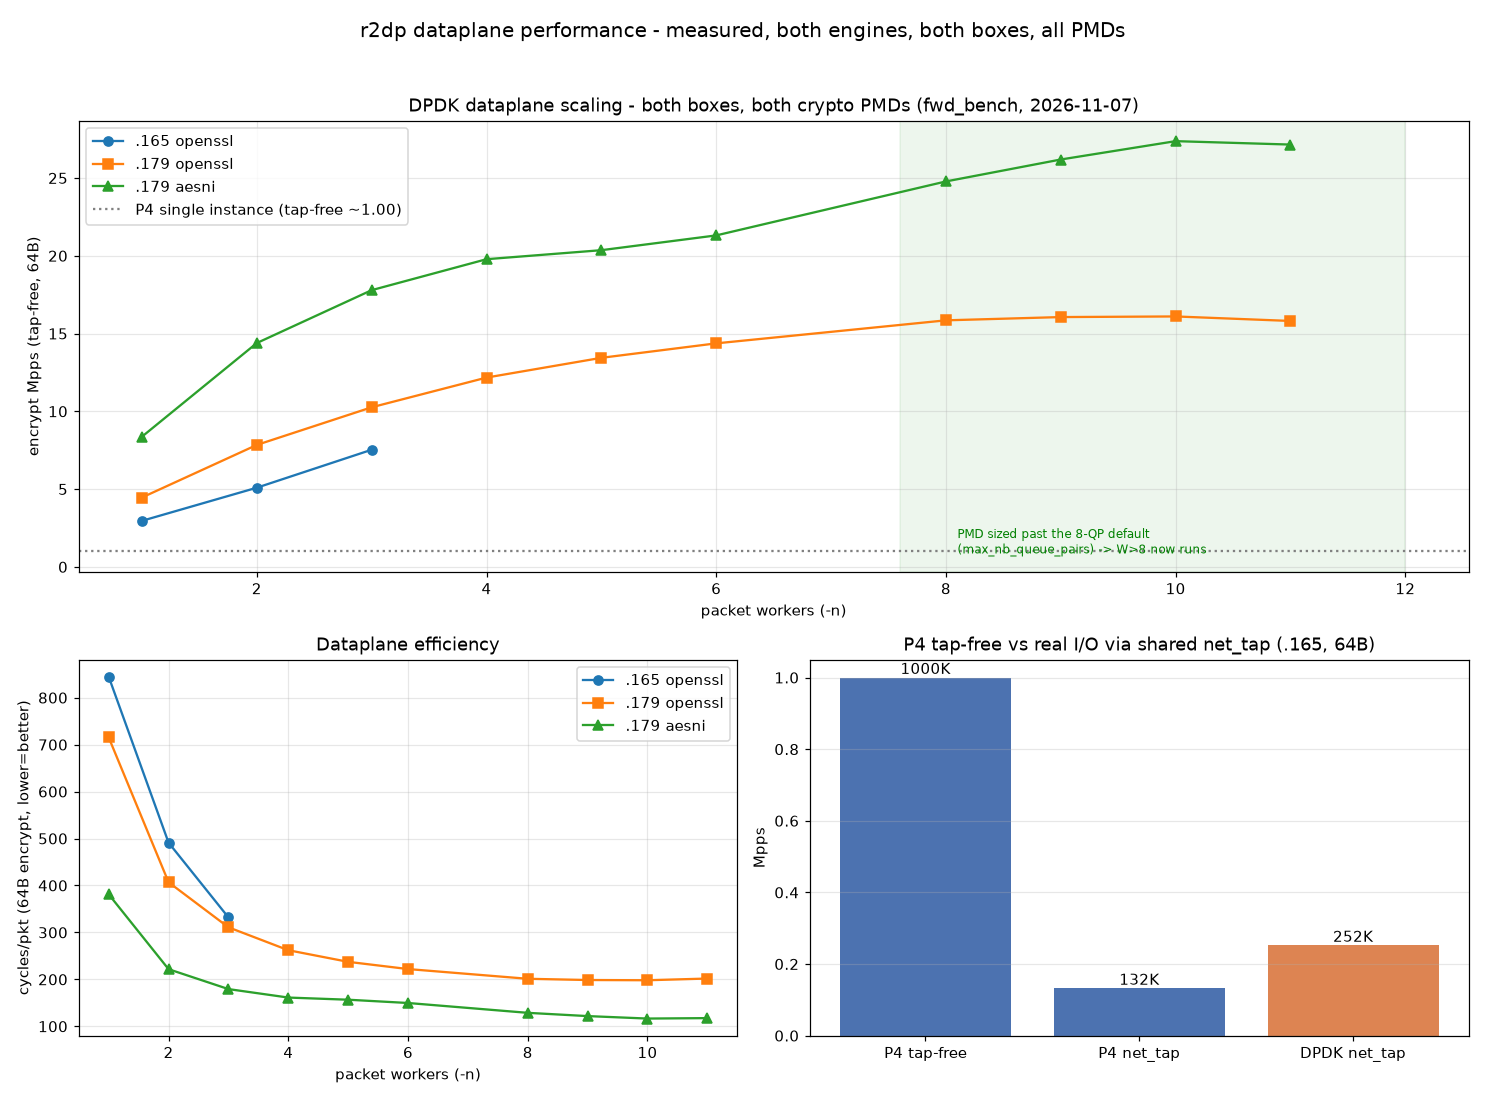
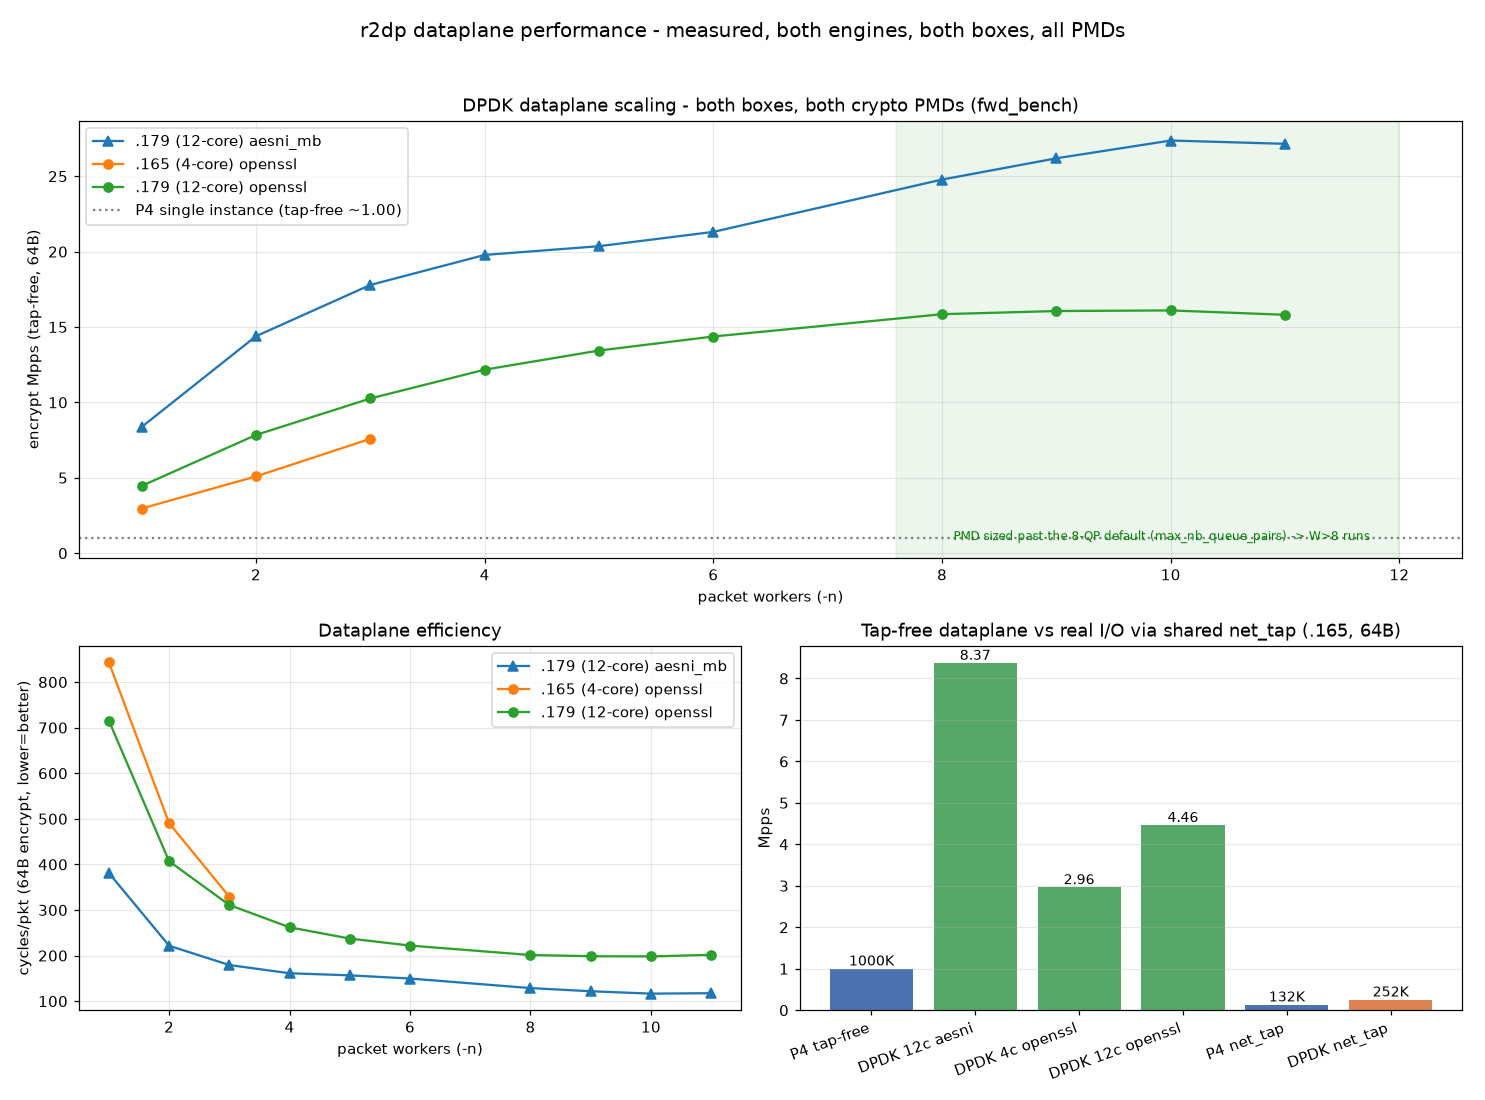
bench: add regenerable curves (DPDK tap-free on chart) + fix fwd_bench stdin JSON
Adds bench/curves.py, a regenerable benchmark-chart pipeline, and puts DPDK
tap-free on the chart next to P4 tap-free and the net_tap wall.

curves.py has two modes against bench/curves_data.json:
- plot: renders bench/curves.png from the committed measured data (DPDK openssl
  + aesni_mb on both .165/.179 boxes, tap-free scaling to 11 workers; P4 single
  instance tap-free; the shared net_tap P4/DPDK points).
- collect --from-json / --bin: folds real fwd_bench --json runs into the data
  file (per-worker merge), so the figure is regenerable from new runs, not a
  one-off plot.

Depends on a fwd_bench fix found while wiring the collector: with --json -
(stdout) the human-readable table was printed to stdout alongside the JSON,
corrupting it. Route bench output through a hout stream that is stderr under
--json, keeping stdout a pure JSON document (verified: python json.load parses
the multi-worker output cleanly).

README: document 12-core DPDK scaling (openssl ~16 / aesni ~27 Mpps @ 11
workers, gated by max_nb_queue_pairs + dp_max_wk) and the curves tooling.

diff --git a/bench/curves.py b/bench/curves.py
@@ -1,0 +1,241 @@
+#!/usr/bin/env python3
+"""Regenerate bench/curves.png from benchmark data.
+
+Two modes:
+
+  bench/curves.py plot [--data bench/curves_data.json]
+      Render curves.png from the committed data JSON (works offline).
+
+  bench/curves.py collect --bin /path/fwd_bench --box NAME --pmd openssl|aesni_mb \
+          --hz 3.19e9 --workers 1,2,4,8,11 --size 64
+      Run fwd_bench --json for each worker count and merge the enc/dec Mpps
+      into --data (default bench/curves_data.json).  --box is any label
+      (e.g. ".179 (12-core)") used as a series name.
+
+  bench/curves.py collect --from-json fwd_res.json --box NAME --pmd PMD
+      Parse an existing fwd_bench --json file instead of re-running.
+
+The P4 tap-free point and the tap-path values are read from the data JSON's
+"p4" / "tap" keys (committed from R2DP_P4_BENCH and bench/p4_bench.sh runs).
+
+Data schema (curves_data.json):
+{
+  "dpdk": [ {"box": "...", "pmd": "openssl", "size": 64, "hz": 3.19e9,
+             "enc": {worker: mpps, ...}, "dec": {...}}, ... ],
+  "p4":   {"tapless_mpps": 1.00, "tap_mpps": 0.132, "dpdk_tap_mpps": 0.252,
+           "note": "..."},
+}
+"""
+import argparse, json, os, subprocess, sys
+import matplotlib
+matplotlib.use("Agg")
+import matplotlib.pyplot as plt
+
+DEFAULT_DATA = os.path.join(os.path.dirname(os.path.abspath(__file__)),
+                            "curves_data.json")
+OUT = os.path.join(os.path.dirname(os.path.abspath(__file__)), "curves.png")
+
+
+def load_data(path):
+    if not os.path.exists(path):
+        return {"dpdk": [], "p4": {}}
+    with open(path) as f:
+        return json.load(f)
+
+
+def save_data(path, data):
+    with open(path, "w") as f:
+        json.dump(data, f, indent=1, sort_keys=False)
+    print(f"wrote {path}")
+
+
+def parse_fwd_json(text):
+    """Parse one fwd_bench --json blob -> {'pmd','workers','size',enc,dec}.
+    Handles the multi-worker variant (each result row carries 'size').  The
+    single-block multi-worker form emits several objects one per line; read the
+    last 'results' block that has 'workers' and enc_mpps.  Return a list of
+    per-(size,workers) rows."""
+    import re
+    rows = []
+    # fwd_bench json is one object; grab the whole thing
+    obj = json.loads(text[text.index("{"):])
+    for r in obj.get("results", []):
+        rows.append({
+            "pmd": obj.get("pmd", "?"),
+            "workers": r.get("workers", obj.get("workers", 1)),
+            "size": r.get("size"),
+            "enc": r.get("enc_mpps"),
+            "dec": r.get("dec_mpps"),
+        })
+    return rows
+
+
+def collect_from_bin(data, args):
+    path, box, pmd = args.bin, args.box, args.pmd
+    hz = float(args.hz)
+    ws = [int(x) for x in args.workers.split(",")]
+    size = int(args.size)
+    src = None
+    for s in data.get("dpdk", []):
+        if s["box"] == box and s["pmd"] == pmd:
+            src = s
+            break
+    if src is None:
+        src = {"box": box, "pmd": pmd, "size": size,
+               "hz": hz, "enc": {}, "dec": {}}
+        data["dpdk"].append(src)
+    src["size"], src["hz"] = size, hz
+    for w in ws:
+        cmd = [path, "--pmd", pmd, "--sizes", str(size), "--tunnels", "1",
+               "--runs", str(args.runs), "--workers", str(w),
+               "--json", "-"]
+        p = subprocess.run(cmd, capture_output=True, text=True)
+        if p.returncode not in (0, 77):
+            tail = p.stderr.strip().splitlines()[-1] if p.stderr.strip() else ""
+            print(f"  W={w}: rc={p.returncode}: {tail}")
+            continue
+        rows = parse_fwd_json(p.stdout)
+        for r in rows:
+            if r["size"] == size:
+                src["enc"][str(w)] = float(r["enc"])
+                src["dec"][str(w)] = float(r["dec"])
+        print(f"  W={w}: enc={src['enc'].get(str(w))} dec={src['dec'].get(str(w))} "
+              f"{pmd} {box}")
+    return data
+
+
+def collect_from_file(data, args):
+    with open(args.from_json) as f:
+        rows = parse_fwd_json(f.read())
+    # locate or create the series for this box/pmd, then overlay each worker
+    src = next((s for s in data.get("dpdk", [])
+                if s["box"] == args.box and s["pmd"] == args.pmd), None)
+    fresh = src is None
+    if fresh:
+        src = {"box": args.box, "pmd": args.pmd, "enc": {}, "dec": {}}
+        data["dpdk"].append(src)
+    for r in rows:
+        src["enc"][str(r["workers"])] = r["enc"]
+        src["dec"][str(r["workers"])] = r["dec"]
+    if rows:
+        src["size"] = rows[0]["size"]
+    if args.hz:
+        src["hz"] = float(args.hz)
+    if not fresh:
+        print(f"  merged {len(rows)} row(s) into {args.box} {args.pmd} "
+              f"(enc keys now {sorted(src['enc'])})")
+    return data
+
+
+def plot(data, out):
+    dpdk = sorted(data.get("dpdk", []),
+                  key=lambda s: (s["pmd"] != "aesni_mb", "165" not in s["box"]))
+    p4 = data.get("p4", {})
+    p4_tapfree = p4.get("tapless_mpps", 1.00)
+    p4_tap = p4.get("tap_mpps", 0.132)
+    dpdk_tap = p4.get("dpdk_tap_mpps", 0.252)
+
+    fig = plt.figure(figsize=(13.5, 10))
+    gs = fig.add_gridspec(2, 2, height_ratios=[1.2, 1])
+
+    # (a) DPDK tap-free scaling (enc) per series
+    ax = fig.add_subplot(gs[0, :])
+    styles = {"openssl": "o-", "aesni_mb": "^-"}
+    for s in dpdk:
+        xs = sorted(int(k) for k in s["enc"])
+        label = f"{s['box']} {s['pmd']}"
+        ax.plot(xs, [s["enc"][str(x)] for x in xs], styles.get(s["pmd"], "o-"),
+                label=label, ms=6)
+    ax.axhline(p4_tapfree, color="gray", ls=":", lw=1.5,
+               label=f"P4 single instance (tap-free ~{p4_tapfree:.2f})")
+    ax.axvspan(7.6, 12, color="green", alpha=0.07)
+    ax.text(8.1, ax.get_ylim()[1]*0.03,
+            "PMD sized past the 8-QP default (max_nb_queue_pairs) -> W>8 runs",
+            fontsize=8, color="green")
+    ax.set_xlabel("packet workers (-n)")
+    ax.set_ylabel("encrypt Mpps (tap-free, 64B)")
+    ax.set_title("DPDK dataplane scaling - both boxes, both crypto PMDs (fwd_bench)")
+    ax.grid(True, alpha=0.3)
+    ax.legend(loc="upper left")
+
+    # (b) cycles/pkt efficiency (64B enc)
+    ax = fig.add_subplot(gs[1, 0])
+    for s in dpdk:
+        hz_i = float(s.get("hz", 3.19e9))
+        xs = sorted(int(k) for k in s["enc"])
+        ax.plot(xs, [hz_i/(s["enc"][str(x)]*1e6) for x in xs],
+                styles.get(s["pmd"], "o-"),
+                label=f"{s['box']} {s['pmd']}", ms=6)
+    ax.set_xlabel("packet workers (-n)")
+    ax.set_ylabel("cycles/pkt (64B encrypt, lower=better)")
+    ax.set_title("Dataplane efficiency")
+    ax.grid(True, alpha=0.3)
+    ax.legend()
+
+    # (c) tap-free vs real-I/O: BOTH engines tap-free AND tap
+    ax = fig.add_subplot(gs[1, 1])
+    # representative DPDK tap-free points: W=1 openssl .165, W=1 aesni .179
+    dpdk_tapfree = {}
+    for s in dpdk:
+        if "1" in s["enc"]:
+            pm = "aesni" if s["pmd"] == "aesni_mb" else s["pmd"]
+            box = "12c" if "179" in s["box"] else "4c"
+            dpdk_tapfree[f"DPDK {box} {pm}"] = s["enc"]["1"]
+    labels = ["P4 tap-free"] + list(dpdk_tapfree) + ["P4 net_tap", "DPDK net_tap"]
+    vals = [p4_tapfree] + list(dpdk_tapfree.values()) + [p4_tap, dpdk_tap]
+    colors = (["#4C72B0"] + ["#55A868"]*len(dpdk_tapfree) + ["#4C72B0", "#DD8452"])
+    ax.bar(labels, vals, color=colors)
+    for i, v in enumerate(vals):
+        ax.text(i, v, (f"{v:.2f}" if v > 1 else f"{v*1e3:.0f}K"),
+                ha="center", va="bottom", fontsize=9)
+    ax.set_ylabel("Mpps")
+    ax.set_title("Tap-free dataplane vs real I/O via shared net_tap (.165, 64B)")
+    ax.grid(True, axis="y", alpha=0.3)
+    plt.setp(ax.get_xticklabels(), rotation=20, ha="right")
+
+    fig.suptitle("r2dp dataplane performance - measured, both engines, both boxes, all PMDs",
+                 fontsize=13)
+    fig.tight_layout(rect=[0, 0, 1, 0.96])
+    fig.savefig(out, dpi=110)
+    print(f"wrote {out}")
+    if p4.get("note"):
+        print("note:", p4["note"])
+
+
+def main():
+    ap = argparse.ArgumentParser(description=__doc__,
+                                 formatter_class=argparse.RawDescriptionHelpFormatter)
+    ap.add_argument("--data", default=DEFAULT_DATA)
+    sub = ap.add_subparsers(dest="cmd", required=True)
+
+    p = sub.add_parser("plot")
+    p.set_defaults(func=plot)
+
+    c = sub.add_parser("collect")
+    c.add_argument("--bin", help="path to fwd_bench binary")
+    c.add_argument("--from-json", help="existing fwd_bench --json file")
+    c.add_argument("--box", required=True, help="series label, e.g. '.179 (12-core)'")
+    c.add_argument("--pmd", required=True, choices=["openssl", "aesni_mb"])
+    c.add_argument("--workers", default="1,2,4,8,11")
+    c.add_argument("--size", default=64)
+    c.add_argument("--hz", default=None, help="TSC hz for this box")
+    c.add_argument("--runs", default=3)
+    c.set_defaults(func=None)
+
+    args = ap.parse_args()
+    data = load_data(args.data)
+
+    if args.cmd == "collect":
+        if args.bin:
+            collect_from_bin(data, args)
+        elif args.from_json:
+            collect_from_file(data, args)
+        else:
+            ap.error("collect needs --bin or --from-json")
+        save_data(args.data, data)
+    else:
+        plot(data, OUT)
+
+
+if __name__ == "__main__":
+    main()

diff --git a/bench/fwd_bench.c b/bench/fwd_bench.c
@@ -423,11 +423,16 @@ mt_tunnels(struct dpdk_priv *a, struct dpdk_priv *b, unsigned nw)
 	return 0;
 }
 
+/* Human-readable benchmark table. When --json emits to stdout (json=="-"),
+ * this is set to stderr so stdout carries only the JSON document; otherwise
+ * it corrupts it. Default stdout so a normal run's table still prints. */
+static FILE *hout;   /* set in main: stdout normally, stderr under --json */
+
 static int
 mt_run(struct dpdk_priv *a, struct dpdk_priv *b, unsigned nw, const int *sizes,
     int nsz, int runs, double hz, FILE *jf, const char *pmdname)
 {
-	printf("  size workers  enc cyc/pkt  enc Mpps (sum)  dec cyc/pkt  "
+	fprintf(hout, "  size workers  enc cyc/pkt  enc Mpps (sum)  dec cyc/pkt  "
 	    "dec Mpps (sum)\n");
 	if (jf)
 		fprintf(jf, "{\"bench\":\"fwd_bench\",\"pmd\":\"%s\",\"workers\":%u,"
@@ -451,7 +456,7 @@ mt_run(struct dpdk_priv *a, struct dpdk_priv *b, unsigned nw, const int *sizes,
 			ce += mt_enc[w] / nw; cd += mt_dec[w] / nw;
 			me += hz / mt_enc[w] / 1e6; md += hz / mt_dec[w] / 1e6;
 		}
-		printf("  %4d %7u  %11.0f  %14.2f  %11.0f  %14.2f\n", sizes[z], nw,
+		fprintf(hout, "  %4d %7u  %11.0f  %14.2f  %11.0f  %14.2f\n", sizes[z], nw,
 		    ce, me, cd, md);
 		if (jf)
 			fprintf(jf, "%s\n {\"size\":%d,\"workers\":%u,"
@@ -514,6 +519,8 @@ main(int argc, char **argv)
 			return 2;
 		}
 	}
+	/* When JSON goes to stdout, keep stdout clean: human table to stderr. */
+	hout = json ? stderr : stdout;
 	if (nsz < 1 || ntun < 1 || runs < 1 || runs > MAXRUNS || nw < 1 ||
 	    nw > DP_MAX_WK ||
 	    (strcmp(pmd, "auto") && strcmp(pmd, "openssl") &&
@@ -564,7 +571,7 @@ main(int argc, char **argv)
 			dp_wk_init(b, (unsigned)w);
 		}
 		if (mt_tunnels(a, b, (unsigned)nw)) { puts("tunnel setup FAILED"); return 1; }
-		printf("fwd_bench: crypto_%s, %d workers, %d-packet bursts, %d "
+		fprintf(hout, "fwd_bench: crypto_%s, %d workers, %d-packet bursts, %d "
 		    "packets/worker, warmup + median of %d, TSC %.2f GHz\n",
 		    pmdname, nw, BURST, NPKT, runs, hz / 1e9);
 		if (json && !(jf = strcmp(json, "-") ? fopen(json, "w") : stdout)) {
@@ -590,10 +597,10 @@ main(int argc, char **argv)
 	    add_sp(b, 1, R2DP_DIR_IN, "10.2.0.0", "10.1.0.0", "192.0.2.1", "192.0.2.2")) {
 		puts("tunnel setup FAILED"); return 1;
 	}
-	printf("fwd_bench: crypto_%s, %d-packet bursts, %d packets, "
+	fprintf(hout, "fwd_bench: crypto_%s, %d-packet bursts, %d packets, "
 	    "warmup + median of %d, TSC %.2f GHz\n", pmdname, BURST, NPKT, runs,
 	    hz / 1e9);
-	printf("  size tunnels   enc cyc/pkt  enc Mpps   dec cyc/pkt  dec Mpps\n");
+	fprintf(hout, "  size tunnels   enc cyc/pkt  enc Mpps   dec cyc/pkt  dec Mpps\n");
 	for (int k = 0; k < ntun; k++) {
 		while (have < tunnels[k])
 			if (add_tunnel(a, b, have++)) { puts("tunnel setup FAILED"); return 1; }
@@ -601,7 +608,7 @@ main(int argc, char **argv)
 			if (measure(a, b, 0, (unsigned)sizes[z], runs, &enc[z][k], &dec[z][k])) {
 				puts("FAIL measure"); return 1;
 			}
-			printf("  %4d %7d   %11.0f  %8.2f   %11.0f  %8.2f\n",
+			fprintf(hout, "  %4d %7d   %11.0f  %8.2f   %11.0f  %8.2f\n",
 			    sizes[z], tunnels[k], enc[z][k], hz / enc[z][k] / 1e6,
 			    dec[z][k], hz / dec[z][k] / 1e6);
 			if (steer) {
@@ -609,7 +616,7 @@ main(int argc, char **argv)
 				if (measure_steer(a, b, (unsigned)sizes[z], runs, &si, &so)) {
 					puts("FAIL steer"); return 1;
 				}
-				printf("               steer: inner %.0f outer %.0f cyc/pkt\n",
+				fprintf(hout, "               steer: inner %.0f outer %.0f cyc/pkt\n",
 				    si, so);
 			}
 		}
@@ -621,14 +628,14 @@ main(int argc, char **argv)
 		for (int z = 0; z < nsz && t > 0; z++) {
 			double se = enc[z][t] / enc[z][0], sd = dec[z][t] / dec[z][0];
 			int ok = se <= ms && sd <= ms;
-			printf("%s %4dB scaling %d->%d tunnels: enc x%.2f dec x%.2f (max x%.2f)\n",
+			fprintf(hout, "%s %4dB scaling %d->%d tunnels: enc x%.2f dec x%.2f (max x%.2f)\n",
 			    ok ? "ok  " : "FAIL", sizes[z], tunnels[0], tunnels[t],
 			    se, sd, ms);
 			fails += !ok;
 		}
 		if (mc > 0) {
 			int ok = enc[0][0] <= mc && dec[0][0] <= mc;
-			printf("%s %dB, %d tunnel(s): enc %.0f dec %.0f cyc/pkt (max %.0f)\n",
+			fprintf(hout, "%s %dB, %d tunnel(s): enc %.0f dec %.0f cyc/pkt (max %.0f)\n",
 			    ok ? "ok  " : "FAIL", sizes[0], tunnels[0], enc[0][0],
 			    dec[0][0], mc);
 			fails += !ok;

diff --git a/README.md b/README.md
@@ -89,6 +89,17 @@ SWX pipeline instance on the box; a multicore P4 layout (multiple pipeline
 instances straddling traffic by RSS/hash) is the path to scaling aggregate
 throughput.
 
+DPDK scales past single instance: on the 12-core i7-8700 (`fwd_bench
+--workers N`), openssl reaches ~16 Mpps and aesni ~27 Mpps encrypt at 64B
+over 11 workers (`nw+1` lcores), given a cryptodev created with
+`max_nb_queue_pairs=<nw>` (both PMDs default to 8 queue pairs, which would
+silently cap the run at 8 workers) and `dp_max_wk` raised past the old
+DP_MAX_WK=8 ceiling.  `bench/curves.py` regenerates `bench/curves.png` from
+real `fwd_bench --json` runs: `plot` renders the committed
+`curves_data.json`; `collect --from-json` (or `--bin`) folds fresh runs into
+it, with DPDK tap-free plotted alongside P4 tap-free and the net_tap wall in
+the bottom-right panel.
+
 **Known open points (current state):**
 - `sa_set_hard_bytes` / `sa_set_hard_time` are unset (NULL) on the P4 backend,
   so byte/time hard-lifetime enforcement is control-side (ctl) only, not
